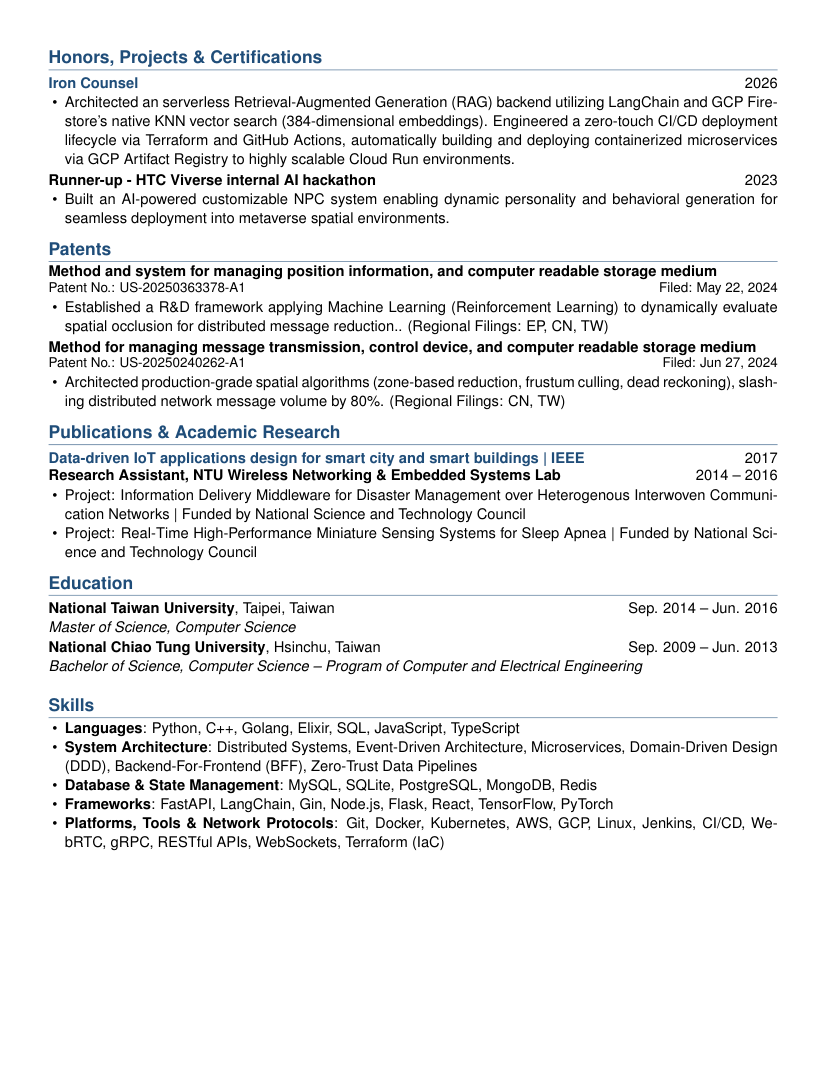
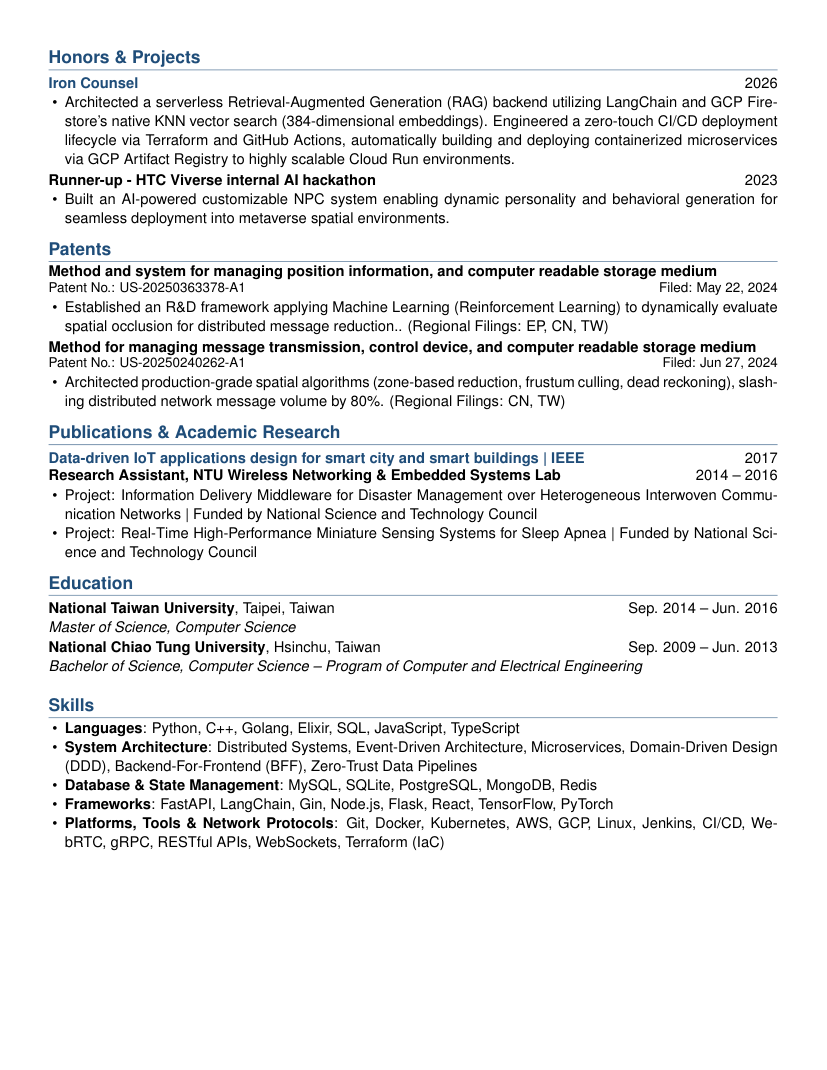
resume update

diff --git a/resume/sections/experience.tex b/resume/sections/experience.tex
@@ -1,29 +1,29 @@
 \section{Experience}
 
-\ResumeSimpleEntry{HTC Viverse \textbar{} Senior Engineer @ Research Team}{May. 2022 -- July. 2025}
+\ResumeSimpleEntry{HTC Viverse \textbar{} Senior Engineer @ Research Team}{May. 2022 - July. 2025}
 \begin{resumeitems}
 \item \textbf{Global Platform Scale}: Served as the Lead Architect for the scalable backend design for the Viverse Worlds global launch. Conceptualized a dynamic URL resolution strategy, partnering with Ops on the edge infrastructure (AWS Lambda@Edge) to scale to 1 million monthly-active users.
 \item \textbf{Algorithmic R\&D (Patented)}: Engineered and patented novel spatial computing algorithms and Machine Learning (Reinforcement Learning) frameworks to dynamically evaluate occlusion, successfully slashing distributed system network egress bandwidth by up to 80\%.
-\item \textbf{AI Integration \& Revenue Growth}: Architected an event-driven AWS sidecar for low-latency WebRTC streams, enabling secure third-party AI moderation and driving a \$33,000 USD revenue increase.
+\item \textbf{AI Integration \& Revenue Growth}: Architected a concurrent Golang/FFmpeg and custom WebRTC pipeline to asynchronously encode live audio into files for Hive AI automated moderation, driving \$33,000 USD in revenue.
 \item \textbf{Cross-Functional Technical Leadership}: Directed multi-disciplinary engineering pods (Research, BE/FE, Ops) from system design to execution, transitioning the core platform from an isolated, single-scene architecture into an interconnected 3D ecosystem while maintaining strict backward compatibility.
 \item \textbf{Concurrency Optimization}: Engineered a multi-worker paradigm in the WebRTC core to break single-thread CPU limits, scaling concurrent room capacity from 300 to 4,500+ consumers.
 \end{resumeitems}
 
-\ResumeSimpleEntry{HTC Vive \textbar{} Senior Engineer}{Sep. 2020 -- May. 2022}
+\ResumeSimpleEntry{HTC Vive \textbar{} Senior Engineer}{Sep. 2020 - May. 2022}
 \begin{resumeitems}
 \item \textbf{Proactive Leadership \& Standardization}: Autonomously identified legacy I/O bottlenecks and drove a high-performance microservice evolution. Authored an independent, open-source FastAPI boilerplate that HTC Vive officially adopted as its foundational backend standard, reducing new API latency by 85\%.
 \item \textbf{Asynchronous Architecture}: Architected a fault-tolerant Backend-For-Frontend (BFF) layer utilizing Celery and AWS SQS, fully decoupling CPU-heavy 3D asset manipulation to guarantee high availability and eliminate API Gateway timeouts.
 \item \textbf{Multi-Tenant Security}: Engineered a highly scalable Role-Based Access Control (RBAC) ecosystem leveraging Domain-Driven Design (DDD) and polyglot persistence to securely isolate enterprise client data across a multi-tenant platform.
 \end{resumeitems}
 
-\ResumeSimpleEntry{InfoBoom \textbar{} Senior Software Developer (Technical Lead)}{Feb. 2020 -- Sep. 2020}
+\ResumeSimpleEntry{InfoBoom \textbar{} Senior Software Developer (Technical Lead)}{Feb. 2020 - Sep. 2020}
 \begin{resumeitems}
 \item \textbf{Technical Team Leadership}: Directed a 4-person engineering pod through complex architectural modernizations. Managed critical-path dependencies and unblocked technical constraints to guarantee the on-time delivery of high-security SaaS milestones.
 \item \textbf{Cryptographic Architecture}: Engineered the high-risk modernization of a core C++ encryption library for a high-security SaaS platform, achieving strict zero-regression API compatibility while securing ISO27001 and Taiwan MAS compliance.
 \item \textbf{System Modernization}: Architected the enterprise teardown of a legacy WebRTC monolith, migrating the infrastructure into a highly available, event-driven Node.js microservice ecosystem utilizing MongoDB and RabbitMQ.
 \end{resumeitems}
 
-\ResumeSimpleEntry{Synology \textbar{} Product Developer}{Dec. 2016 -- Jun. 2018}
+\ResumeSimpleEntry{Synology \textbar{} Product Developer}{Dec. 2016 - Jun. 2018}
 \begin{resumeitems}
 \item \textbf{Core Systems Engineering}: Engineered full-stack mail flow control features natively in C++ (Postfix/Dovecot), resolving critical system-level memory leaks and race conditions.
 \end{resumeitems}

diff --git a/resume/sections/honors_projects_certifications.tex b/resume/sections/honors_projects_certifications.tex
@@ -1,8 +1,8 @@
-\section{Honors, Projects \& Certifications}
+\section{Honors \& Projects}
 
 \ResumeSimpleEntry{\href{https://github.com/klee1611/iron-counsel}{Iron Counsel}}{2026}
 \begin{resumeitems}
-  \item Architected an serverless Retrieval-Augmented Generation (RAG) backend utilizing LangChain and GCP Firestore's native KNN vector search (384-dimensional embeddings). Engineered a zero-touch CI/CD deployment lifecycle via Terraform and GitHub Actions, automatically building and deploying containerized microservices via GCP Artifact Registry to highly scalable Cloud Run environments.
+  \item Architected a serverless Retrieval-Augmented Generation (RAG) backend utilizing LangChain and GCP Firestore's native KNN vector search (384-dimensional embeddings). Engineered a zero-touch CI/CD deployment lifecycle via Terraform and GitHub Actions, automatically building and deploying containerized microservices via GCP Artifact Registry to highly scalable Cloud Run environments.
 \end{resumeitems}
 
 \ResumeSimpleEntry{Runner-up - HTC Viverse internal AI hackathon}{2023}

diff --git a/resume/sections/publications_research.tex b/resume/sections/publications_research.tex
@@ -2,6 +2,6 @@
 \ResumeSimpleEntry{\href{https://ieeexplore.ieee.org/document/8397394}{Data-driven IoT applications design for smart city and smart buildings \textbar{} IEEE}}{2017}
 \ResumeSimpleEntry{Research Assistant, NTU Wireless Networking \& Embedded Systems Lab}{2014 -- 2016}
 \begin{resumeitems}
-\item {Project: Information Delivery Middleware for Disaster Management over Heterogenous Interwoven Communication Networks \textbar{} Funded by National Science and Technology Council}
+\item {Project: Information Delivery Middleware for Disaster Management over Heterogeneous Interwoven Communication Networks \textbar{} Funded by National Science and Technology Council}
 \item {Project: Real-Time High-Performance Miniature Sensing Systems for Sleep Apnea \textbar{} Funded by National Science and Technology Council}
 \end{resumeitems}

diff --git a/resume/sections/patents.tex b/resume/sections/patents.tex
@@ -1,7 +1,7 @@
 \section{Patents}
 \ResumePatentEntry{Method and system for managing position information, and computer readable storage medium}{US-20250363378-A1}{May 22, 2024}
 \begin{resumeitems}
-\item Established a R\&D framework applying Machine Learning (Reinforcement Learning) to dynamically evaluate spatial occlusion for distributed message reduction.. (Regional Filings: EP, CN, TW)
+\item Established an R\&D framework applying Machine Learning (Reinforcement Learning) to dynamically evaluate spatial occlusion for distributed message reduction.. (Regional Filings: EP, CN, TW)
 \end{resumeitems}
 \ResumePatentEntry{Method for managing message transmission, control device, and computer readable storage medium}{US-20250240262-A1}{Jun 27, 2024}
 \begin{resumeitems}
